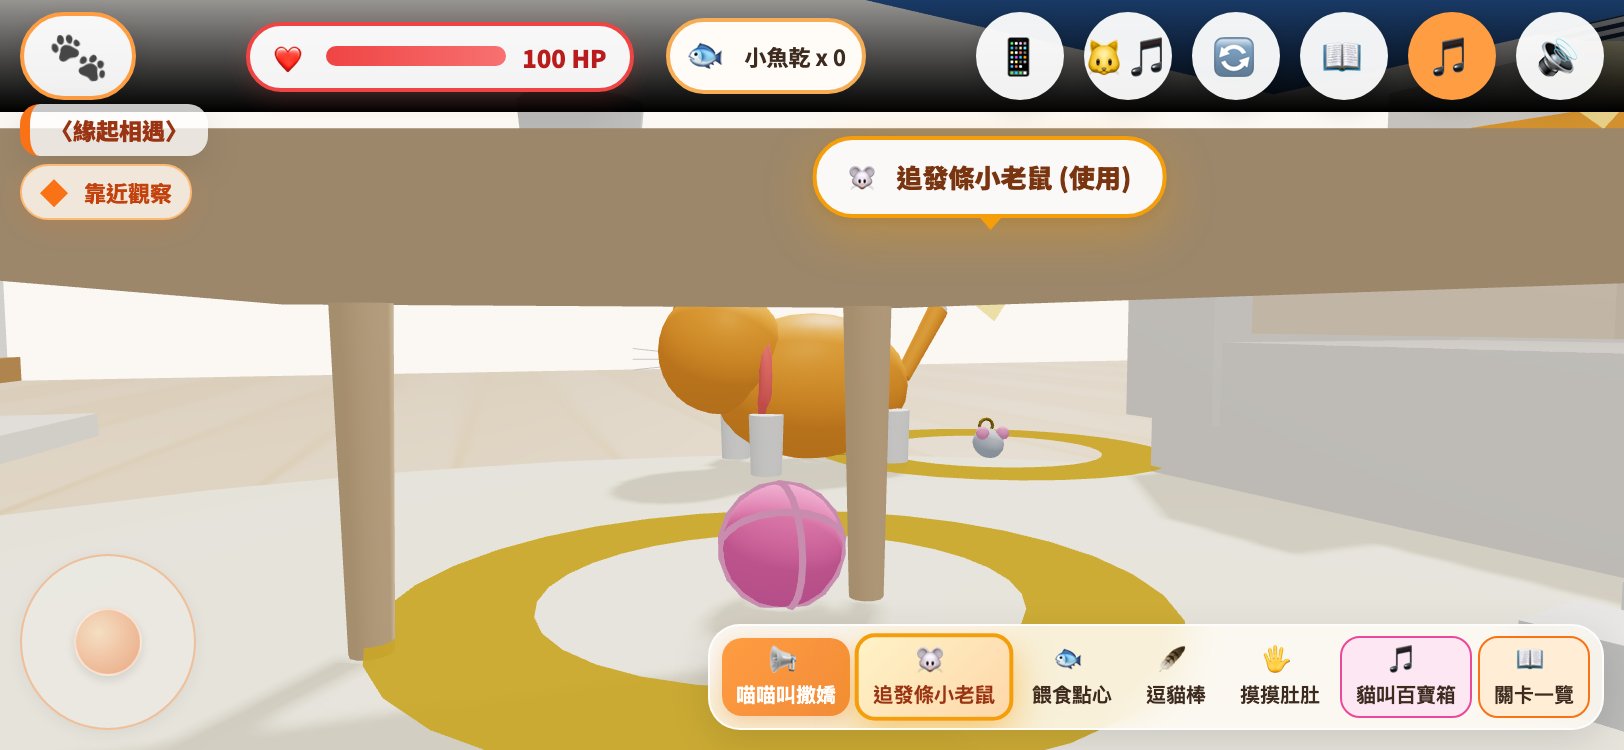
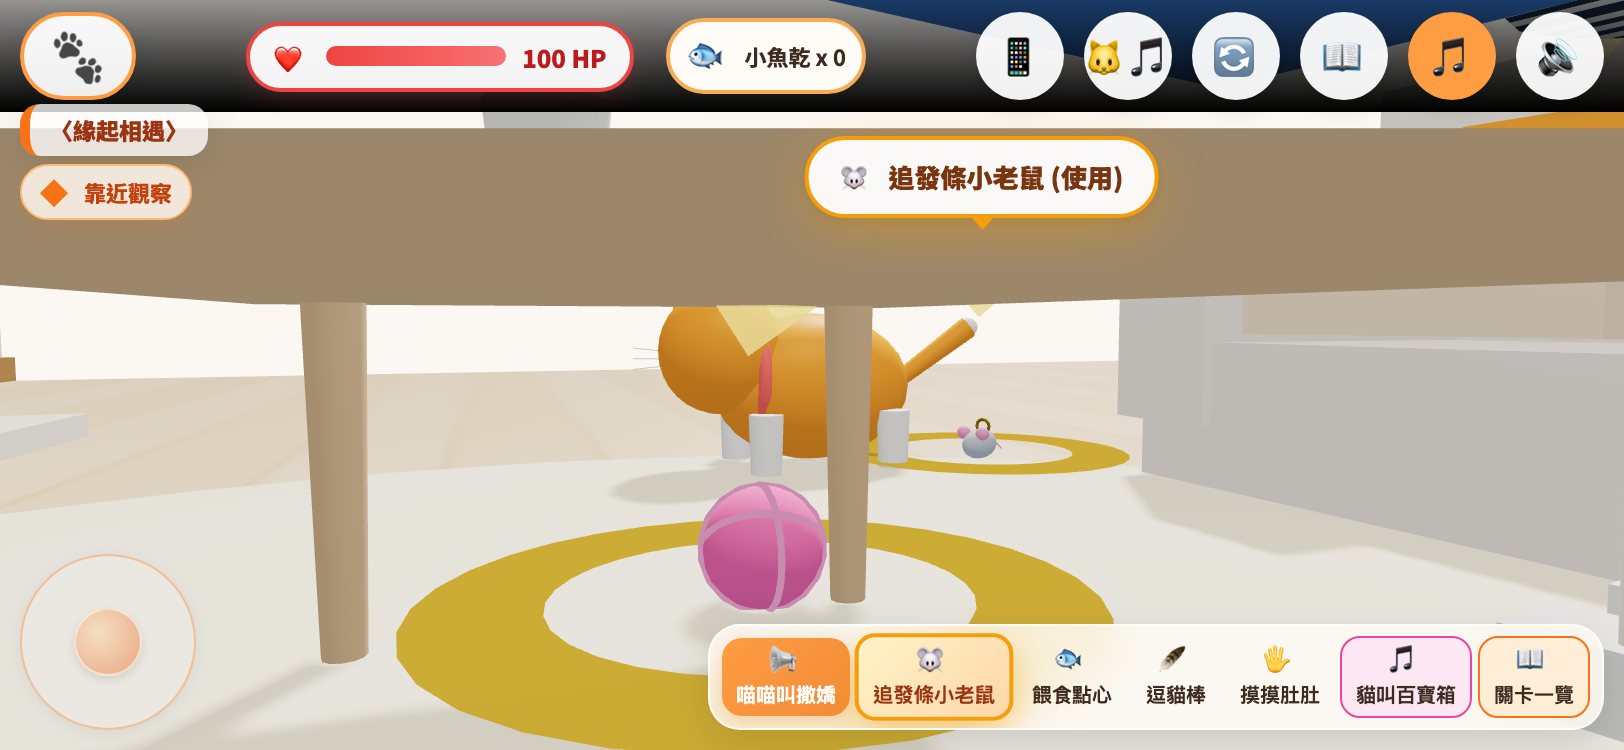
feat(ui,audio): add QR code button on title screen and prevent cat from meowing repeatedly when idle

diff --git a/js/game.js b/js/game.js
@@ -2546,98 +2546,71 @@ class GameEngine {
   }
 
   checkTouchCollisions(time) {
+    // 僅在正式探索模式 (explore) 且玩家正在主動操作小貓移動時，才偵測碰觸地面小玩具
     if (this.viewMode !== 'cat' || !this.cat) return;
+    if (!window.curriculumSystem || window.curriculumSystem.G.mode !== 'explore') return;
+    if (!this.isCatMoving) return;
+
     const catPos = this.catPos;
+    if (!this._touchZones) this._touchZones = {};
 
     // 1. 毛線球 (yarn, pos: 0.7, 0, -0.4)
     const dYarn = Math.hypot(catPos.x - 0.7, catPos.z - (-0.4));
-    if (dYarn < 0.48) {
+    if (dYarn < 0.42) {
       if (this.yarnBall) {
         this.yarnBall.rotation.x += 0.35;
         this.yarnBall.rotation.z += 0.25;
       }
-      if (!this._lastYarnTouch || time - this._lastYarnTouch > 2.5) {
+      if (!this._touchZones.yarn && (!this._lastYarnTouch || time - this._lastYarnTouch > 10.0)) {
+        this._touchZones.yarn = true;
         this._lastYarnTouch = time;
         if (window.soundSystem) window.soundSystem.playRealMeow('playful');
-        this.showPrompt('🧶 碰到了彩色毛線球！毛線骨碌碌滾動～💖');
         this.spawnHeartsNear(catPos);
       }
+    } else if (dYarn > 0.75) {
+      this._touchZones.yarn = false;
     }
 
     // 2. 發條小老鼠 (mouse, pos: 1.8, 0, 0.6)
     const dMouse = Math.hypot(catPos.x - 1.8, catPos.z - 0.6);
-    if (dMouse < 0.48) {
+    if (dMouse < 0.42) {
       if (this.toyMouse) {
         this.toyMouse.rotation.y += 0.4;
       }
-      if (!this._lastMouseTouch || time - this._lastMouseTouch > 2.5) {
+      if (!this._touchZones.mouse && (!this._lastMouseTouch || time - this._lastMouseTouch > 10.0)) {
+        this._touchZones.mouse = true;
         this._lastMouseTouch = time;
         if (window.soundSystem) window.soundSystem.playRealMeow('chatter');
-        this.showPrompt('🐭 碰到了發條小老鼠！老鼠受驚滴溜溜旋轉！✨');
         this.spawnHeartsNear(catPos);
       }
+    } else if (dMouse > 0.75) {
+      this._touchZones.mouse = false;
     }
 
     // 3. 點心餐盤 (bowl, pos: -2.8, 0, 0.8)
     const dBowl = Math.hypot(catPos.x - (-2.8), catPos.z - 0.8);
-    if (dBowl < 0.58) {
-      if (!this._lastBowlTouch || time - this._lastBowlTouch > 2.5) {
+    if (dBowl < 0.48) {
+      if (!this._touchZones.bowl && (!this._lastBowlTouch || time - this._lastBowlTouch > 10.0)) {
+        this._touchZones.bowl = true;
         this._lastBowlTouch = time;
         if (window.soundSystem) window.soundSystem.playRealMeow('hungry');
-        this.showPrompt('🍲 碰到了點心餐盤！聞到了香噴噴的小魚乾氣味～😋');
         this.spawnHeartsNear(catPos);
       }
+    } else if (dBowl > 0.85) {
+      this._touchZones.bowl = false;
     }
 
     // 4. 貓薄荷小魚玩偶 (fish, pos: -0.6, 0, -0.3)
     const dFish = Math.hypot(catPos.x - (-0.6), catPos.z - (-0.3));
-    if (dFish < 0.45) {
-      if (!this._lastFishTouch || time - this._lastFishTouch > 2.5) {
+    if (dFish < 0.40) {
+      if (!this._touchZones.fish && (!this._lastFishTouch || time - this._lastFishTouch > 10.0)) {
+        this._touchZones.fish = true;
         this._lastFishTouch = time;
         if (window.soundSystem) window.soundSystem.playRealMeow('sweet');
-        this.showPrompt('🐟 蹭了蹭貓薄荷小魚玩偶，發出舒服呢喃～🥰');
         this.spawnHeartsNear(catPos);
       }
-    }
-
-    // 5. 浴室洗手間門口 (door, pos: -4.4, 0, -2.2)
-    const dDoor = Math.hypot(catPos.x - (-4.4), catPos.z - (-2.2));
-    if (dDoor < 0.85) {
-      if (!this._lastDoorTouch || time - this._lastDoorTouch > 3.0) {
-        this._lastDoorTouch = time;
-        if (window.soundSystem) window.soundSystem.playRealMeow('calling');
-        this.showPrompt('🚪 靠近了洗手間門口！小女生發出深情呼喚：「喵——！」');
-      }
-    }
-
-    // 6. 陽台明亮落地窗 (window, pos: 4.0, 0, -3.85)
-    const dWin = Math.hypot(catPos.x - 4.0, catPos.z - (-3.85));
-    if (dWin < 0.9) {
-      if (!this._lastWinTouch || time - this._lastWinTouch > 3.0) {
-        this._lastWinTouch = time;
-        if (window.soundSystem) window.soundSystem.playRealMeow('chatter');
-        this.showPrompt('🪟 望向明亮落地窗！窗外蝴蝶翩翩飛舞，小女生雀躍顫鳴！✨');
-      }
-    }
-
-    // 7. 貓跳台樂園 (cattree, pos: 2.8, 0, -2.5)
-    const dTree = Math.hypot(catPos.x - 2.8, catPos.z - (-2.5));
-    if (dTree < 0.85 && this.catPos.y < 0.4) {
-      if (!this._lastTreeTouch || time - this._lastTreeTouch > 3.0) {
-        this._lastTreeTouch = time;
-        if (window.soundSystem) window.soundSystem.playRealMeow('sweet');
-        this.showPrompt('🪜 靠近了貓跳台樂園！點選【爬貓跳台】即可一躍攀登！');
-      }
-    }
-
-    // 8. 溫馨沙發 (sofa, pos: 0.7, 0, 1.35)
-    const dSofa = Math.hypot(catPos.x - 0.7, catPos.z - 1.35);
-    if (dSofa < 0.85) {
-      if (!this._lastSofaTouch || time - this._lastSofaTouch > 3.0) {
-        this._lastSofaTouch = time;
-        if (window.soundSystem) window.soundSystem.playRealMeow('happy');
-        this.showPrompt('🛋 靠近了溫馨沙發！點選【客廳沙發】或靠近即可跳上小被子放鬆！');
-      }
+    } else if (dFish > 0.75) {
+      this._touchZones.fish = false;
     }
   }
 
@@ -2743,6 +2716,7 @@ class GameEngine {
 
     const inputLen = Math.hypot(inputRight, inputForward);
     const isMoving = inputLen > 0.01;
+    this.isCatMoving = isMoving;
 
     if (isMoving) {
       if (this.catState === 'sleep_belly_up') {
@@ -2881,6 +2855,7 @@ class GameEngine {
 
     const inputLen = Math.hypot(inputRight, inputForward);
     const isMoving = inputLen > 0.01;
+    this.isCatMoving = isMoving;
 
     if (isMoving) {
       const forwardX = -Math.sin(this.cameraYaw);

diff --git a/index.html b/index.html
@@ -6,7 +6,7 @@
   <meta name="apple-mobile-web-app-capable" content="yes">
   <meta name="apple-mobile-web-app-status-bar-style" content="black-translucent">
   <title>《小女生：膠水貓大冒險》3D 沉浸式教育遊戲</title>
-  <link rel="stylesheet" href="css/style.css?v=20261027_7">
+  <link rel="stylesheet" href="css/style.css?v=20261027_8">
   <!-- Three.js 核心庫 (CDN) -->
   <script src="https://cdnjs.cloudflare.com/ajax/libs/three.js/r128/three.min.js"></script>
 </head>
@@ -39,6 +39,7 @@
         <button id="tCont" class="btn-primary-glow" style="display:none;" onclick="curriculumSystem.continueGame()">▶ 繼續冒險</button>
         <button id="tStart" class="btn-primary-glow" onclick="curriculumSystem.startNewGame()">🐾 開始探索（選擇視角）</button>
         <button id="tStages" class="btn-secondary" onclick="curriculumSystem.openStagesModal()">📖 關卡與章節一覽</button>
+        <button id="tQrcode" class="btn-secondary" style="background: #eff6ff; border-color: #60a5fa; color: #1d4ed8;" onclick="openQrModal()">📱 開啟 QR Code（學生掃碼）</button>
       </div>
       <div class="title-teacher-row">
         <input id="teacherPw" type="password" placeholder="請輸入教師密碼">
@@ -320,32 +321,29 @@
   </div>
 
   <!-- 手機遊玩 QR Code 彈窗 -->
-  <div class="modal-overlay" id="qrcode-modal">
-    <div class="modal-card" style="max-width: 440px; text-align: center;">
+  <div class="modal-overlay" id="qrcode-modal" style="z-index: 350;">
+    <div class="modal-card" style="max-width: 460px; text-align: center;">
       <button class="modal-close" onclick="closeQrModal()">✕</button>
-      <div style="font-size: 40px; margin-bottom: 8px;">📱🐱</div>
-      <h2 style="font-size: 22px; font-weight: 900; color: #ea580c; margin-bottom: 8px;">用手機 / 平板立即暢玩！</h2>
-      <p style="font-size: 14px; color: #64748b; margin-bottom: 16px;">
-        拿起手機開啟相機鏡頭，掃描下方 QR Code 即可直接遊玩：
+      <div style="font-size: 38px; margin-bottom: 6px;">📱🐱</div>
+      <h2 style="font-size: 22px; font-weight: 900; color: #ea580c; margin-bottom: 6px;">學生手機／平板掃碼立即玩</h2>
+      <p style="font-size: 14px; color: #64748b; margin-bottom: 12px;">
+        請開啟相機或 QR Code 掃描器，對準下方條碼即可進入遊戲：
       </p>
-      <div style="background: white; padding: 14px; border-radius: 18px; display: inline-block; box-shadow: 0 4px 20px rgba(0,0,0,0.08); border: 2px solid #fed7aa; margin-bottom: 16px;">
-        <img src="https://api.qrserver.com/v1/create-qr-code/?size=220x220&data=https://cc2025cindy.github.io/cat-game/" alt="手機遊玩 QR Code" style="width: 220px; height: 220px; display: block; border-radius: 8px;" />
+      <div style="background: white; padding: 16px; border-radius: 20px; display: inline-block; box-shadow: 0 6px 24px rgba(0,0,0,0.1); border: 3px solid #fdba74; margin-bottom: 10px;">
+        <img src="https://api.qrserver.com/v1/create-qr-code/?size=260x260&data=https://cc2025cindy.github.io/cat-game/" alt="手機遊玩 QR Code" style="width: 240px; height: 240px; display: block; border-radius: 8px;" />
       </div>
-      <div style="background: #fff7ed; padding: 12px; border-radius: 12px; border: 1.5px solid #fed7aa; font-size: 13px; color: #9a3412; line-height: 1.6; margin-bottom: 16px; text-align: left;">
-        ✨ <b>手機觸控優化</b>：<br>
-        • 左下角<b>圓形類比搖桿 (#pad)</b>：推動幅度靈活對應行走速度<br>
-        • 畫面<b>單指滑動</b>：360° 自由旋轉視角、雙指縮放<br>
-        • 點擊<b>提示菱形</b>：即時聆聽小女生的課文對話與挑戰
+      <div style="font-size: 12px; color: #9a3412; font-weight: 700; margin-bottom: 14px;">
+        🔗 網址：https://cc2025cindy.github.io/cat-game/
       </div>
-      <button class="btn-confirm" onclick="closeQrModal()" style="width: 100%;">我知道了，繼續遊玩</button>
+      <button class="btn-confirm" onclick="closeQrModal()" style="width: 100%;">關閉 QR Code 視窗</button>
     </div>
   </div>
 
   <!-- 依序載入關卡題庫、音效系統、教學邏輯與 3D 引擎 -->
-  <script src="js/stations.js?v=20261027_7"></script>
-  <script src="js/audio.js?v=20261027_7"></script>
-  <script src="js/curriculum.js?v=20261027_7"></script>
-  <script src="js/game.js?v=20261027_7"></script>
+  <script src="js/stations.js?v=20261027_8"></script>
+  <script src="js/audio.js?v=20261027_8"></script>
+  <script src="js/curriculum.js?v=20261027_8"></script>
+  <script src="js/game.js?v=20261027_8"></script>
 
   <script>
     function selectRole(role) {

diff --git a/css/style.css b/css/style.css
@@ -426,7 +426,7 @@ rt {
   height: 100%;
   background: rgba(28, 18, 12, 0.6);
   backdrop-filter: blur(6px);
-  z-index: 100;
+  z-index: 300;
   display: flex;
   align-items: center;
   justify-content: center;
